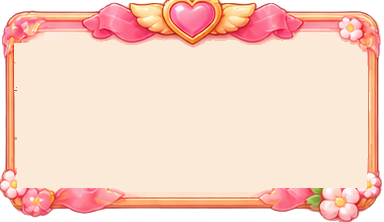
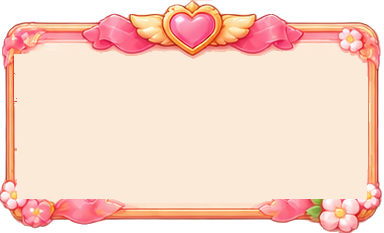
R51: 기구방 B/C 이음새 민트 기둥, 프레임 하트 복원
Claude-Session: https://claude.ai/code/session_01J8fYrQM6BiyeRddjZwaZ46

diff --git a/tools/gaia/r50-patch.py b/tools/gaia/r50-patch.py
@@ -14,7 +14,7 @@ def uri(im,q=88):
 frame=Image.open(R/'assets/ui-v2/cut/frame.png').convert('RGBA');pill1=Image.open(R/'assets/ui-v2/cut/pill1.png').convert('RGBA');pill2=Image.open(R/'assets/ui-v2/cut/pill2.png').convert('RGBA');pill3=pill2;slot=sh.crop((893,632,957,698))
 V={'frame':uri(frame,92),'pill1':uri(pill1),'pill2':uri(pill2),'pill3':uri(pill3),'slot':uri(slot)}
 CSS=""":root{--u2-frame:url(@@frame@@);--u2-pill1:url(@@pill1@@);--u2-pill2:url(@@pill2@@);--u2-pill3:url(@@pill3@@);--u2-slot:url(@@slot@@)}
-dialog#panel{border-style:solid!important;border-color:transparent!important;border-width:60px 38px 44px!important;border-image:var(--u2-frame) 52 fill/70px/0 stretch!important;background:none!important;box-shadow:none!important;border-radius:0!important;padding:4px 8px!important;width:min(94vw,640px)!important;max-height:92dvh!important;color:#7a4a60;overflow:auto;scrollbar-width:thin}
+dialog#panel{border-style:solid!important;border-color:transparent!important;border-width:85px 38px 44px!important;border-image:var(--u2-frame) 63 52 52 52 fill/85px 70px 70px 70px/0 stretch!important;background:none!important;box-shadow:none!important;border-radius:0!important;padding:4px 8px!important;width:min(94vw,640px)!important;max-height:92dvh!important;color:#7a4a60;overflow:auto;scrollbar-width:thin}
 dialog#panel.compact-menu{width:min(94vw,520px)!important}
 dialog#panel h2{margin:0 0 10px!important;text-align:center;font-size:20px!important;font-weight:700;color:#8a4a68;letter-spacing:.04em}
 dialog#panel h2:empty,dialog#panel:has(.profile-tabs) h2{display:none}
@@ -42,7 +42,7 @@ dialog#panel .inventory-grid button:disabled{opacity:1}
 dialog#panel p,dialog#panel small{color:#7a4a60}
 dialog#panel .panel-list>p{margin:5px 2px}
 dialog#panel .life-log{display:block;margin:2px 0;font-size:12px}
-@media (max-height:460px){dialog#panel{border-width:56px 34px 40px!important;max-height:94dvh!important}dialog#panel .panel-button{height:42px!important;min-height:42px!important;font-size:14px!important}dialog#panel .inventory-grid button{font-size:10px}}
+@media (max-height:460px){dialog#panel{border-width:68px 34px 40px!important;border-image-width:66px 52px 52px 52px!important;max-height:94dvh!important}dialog#panel .panel-button{height:42px!important;min-height:42px!important;font-size:14px!important}dialog#panel .inventory-grid button{font-size:10px}}
 """
 for k,v in V.items():CSS=CSS.replace("@@"+k+"@@",v)
 p=W/'script-16.js';s=p.read_text(encoding='utf8')

diff --git a/tools/gaia/r51-patch.py b/tools/gaia/r51-patch.py
@@ -1,0 +1,14 @@
+#!/usr/bin/env python3
+"""R51: 기구 훈련층(3층) 기구방 B/C 사이 이음새를 민트색 기둥으로 가림.
+usage: r51-patch.py WORKDIR   (r50 위에 적용)"""
+import sys
+from pathlib import Path
+W=Path(sys.argv[1]);p=W/'script-16.js';s=p.read_text(encoding='utf8')
+old="drawLift(f);\n {const hl=v.cam+250/v.s+90"
+assert s.count(old)==1
+new=("drawLift(f);\n if(fi===2){const sx=f.bay+L[0].w,pw=86,px=sx-pw/2;if(px+pw>v.cam-20&&px<v.cam+v.width+20){const y0=FL_Y-2,y1=FL_Y+FL_T-6,g=ctx.createLinearGradient(px,0,px+pw,0);g.addColorStop(0,'#5fb9a5');g.addColorStop(.18,'#8fe0cb');g.addColorStop(.5,'#b9f2e2');g.addColorStop(.82,'#8fe0cb');g.addColorStop(1,'#56ad99');"
+"ctx.fillStyle='#00000026';ctx.beginPath();ctx.ellipse(sx,y1+2,pw*.62,9,0,0,6.283);ctx.fill();"
+"ctx.fillStyle=g;ctx.fillRect(px,y0,pw,y1-y0);ctx.fillStyle='#ffffff55';ctx.fillRect(px+pw*.22,y0,6,y1-y0);"
+"ctx.fillStyle='#7ccdb8';ctx.fillRect(px-8,y0,pw+16,22);ctx.fillRect(px-8,y1-26,pw+16,26);ctx.fillStyle='#d6fbf0';ctx.fillRect(px-8,y0,pw+16,6);ctx.fillRect(px-8,y1-26,pw+16,5);"
+"ctx.strokeStyle='#3f8f7e';ctx.lineWidth=3;ctx.strokeRect(px,y0,pw,y1-y0);}}\n {const hl=v.cam+250/v.s+90")
+s=s.replace(old,new);p.write_text(s,encoding='utf8');print('r51 patched')
